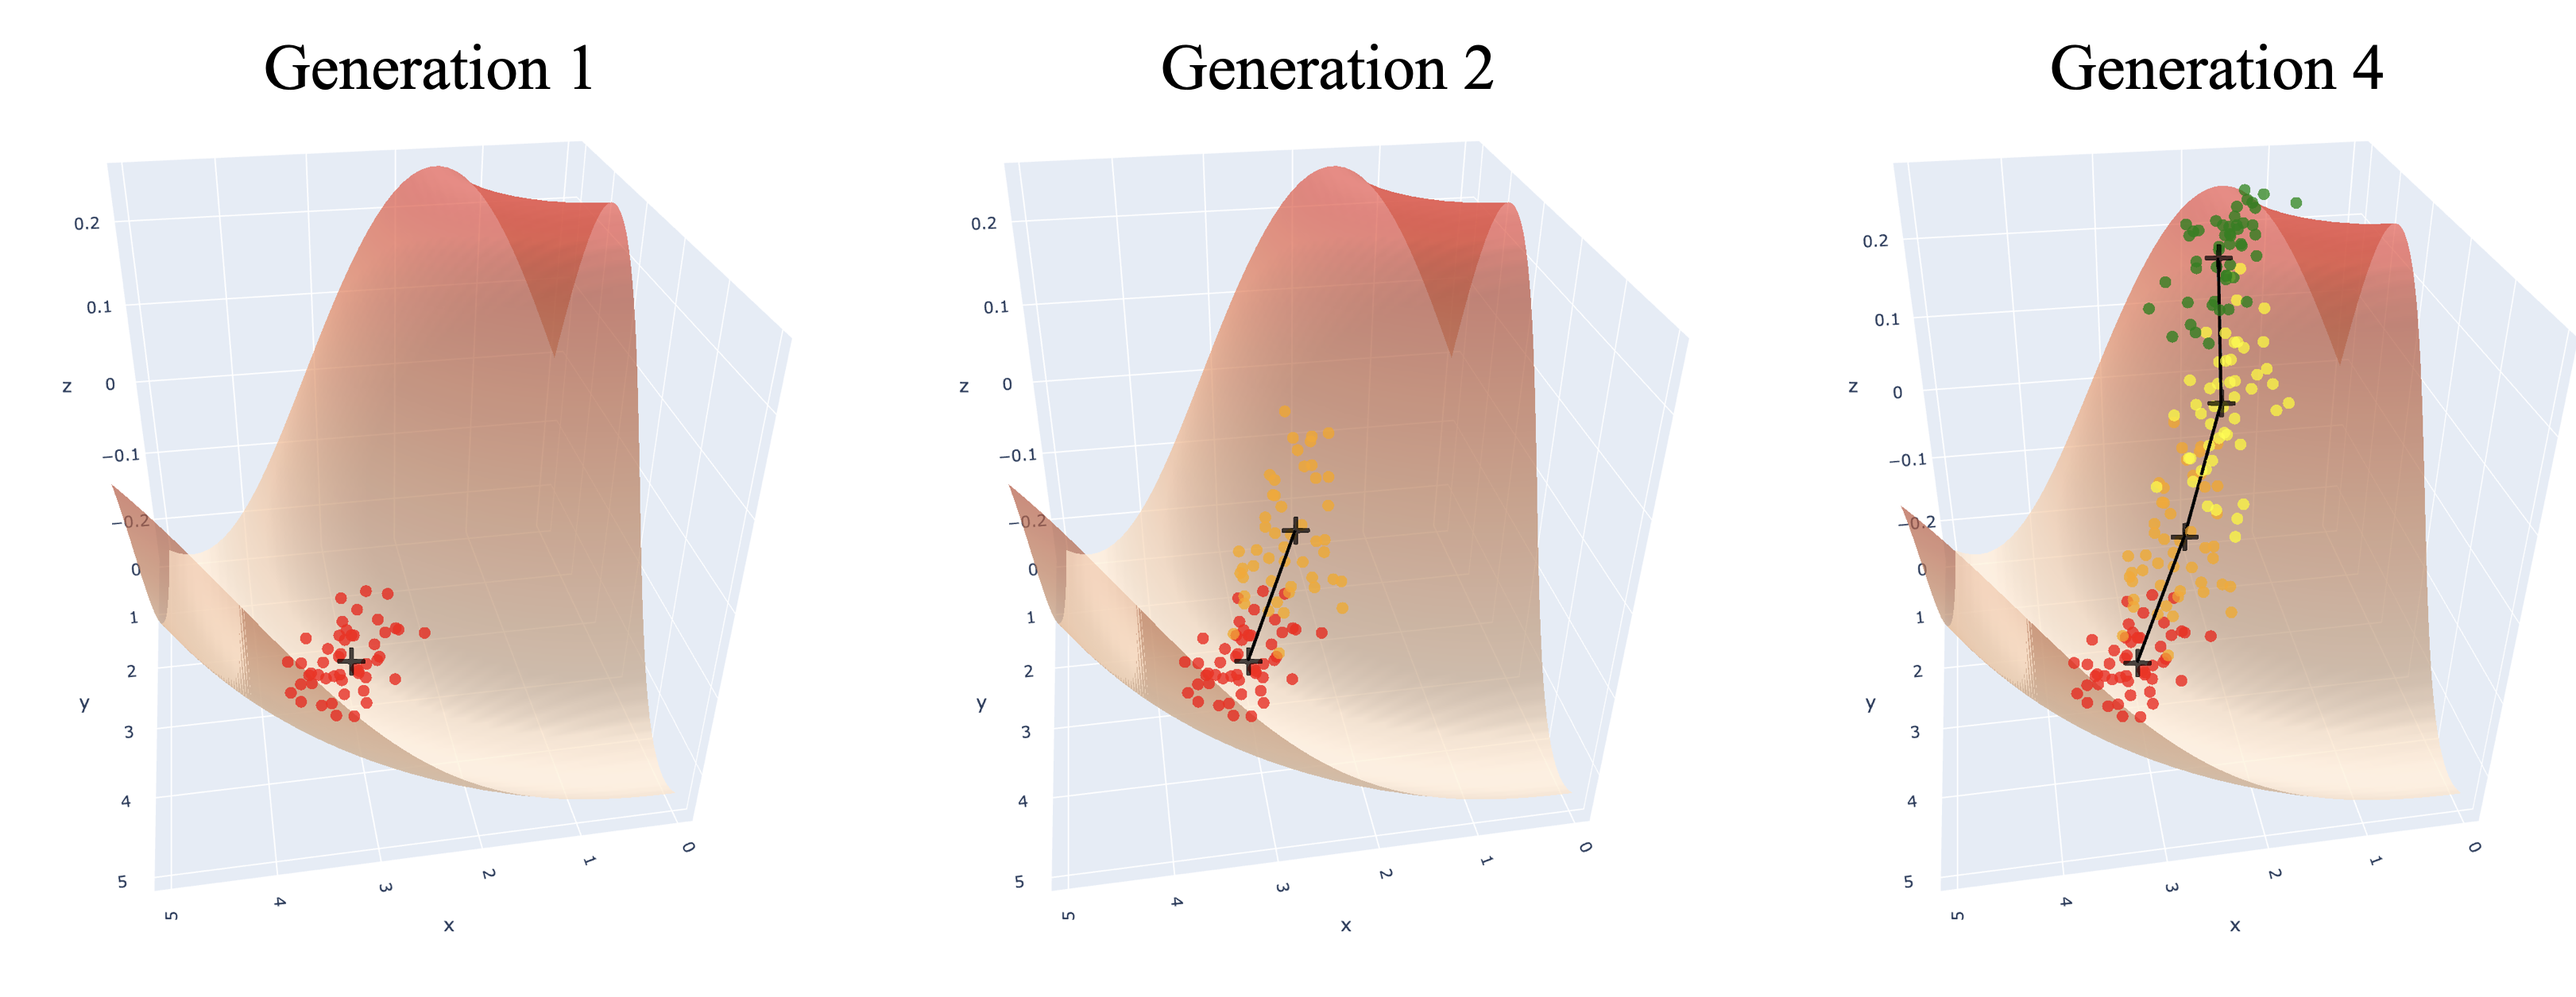
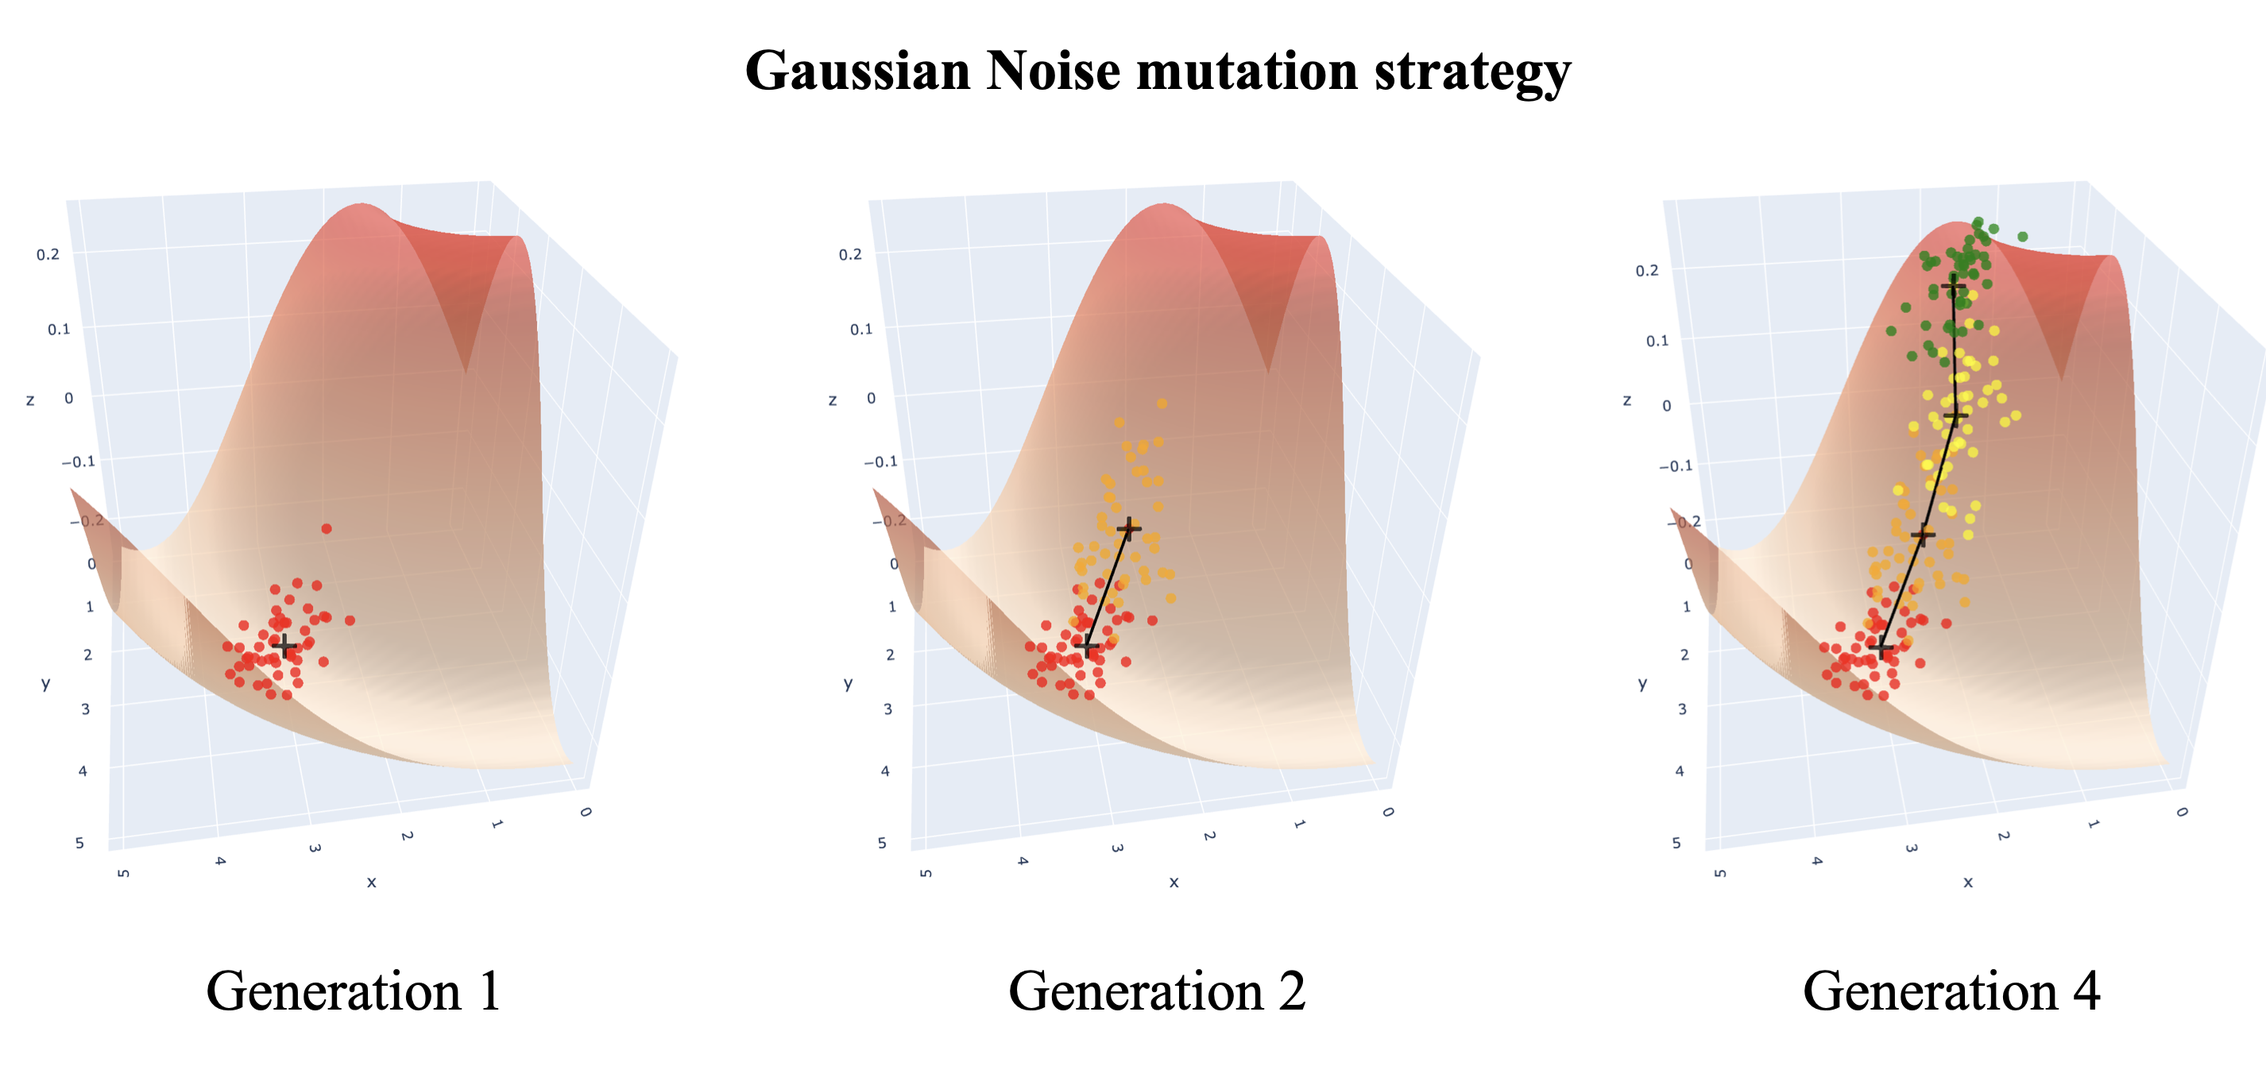
Add illustration images for both strategies

diff --git a/illustrations.py b/illustrations.py
@@ -40,7 +40,7 @@ for i, color in enumerate(colors):
     new_center = np.argmax(scatter_z)
 
     # Add scatter point
-    fig.add_trace(go.Scatter3d(x=np.delete(scatter_x, new_center), y=np.delete(scatter_y, new_center), z=np.delete(scatter_z, new_center), opacity=0.7, mode='markers', marker=dict(size=5, color=color)))
+    fig.add_trace(go.Scatter3d(x=scatter_x, y=scatter_y, z=scatter_z, opacity=0.7, mode='markers', marker=dict(size=5, color=color)))
     fig.add_trace(go.Scatter3d(x=[center_x], y=[center_y], z=[f(center_x, center_y) + .025], opacity=0.7, mode='markers', marker=dict(size=10, color="black", symbol="cross", line=dict(color='black', width=12))))
 
     center_x = scatter_x[new_center]
